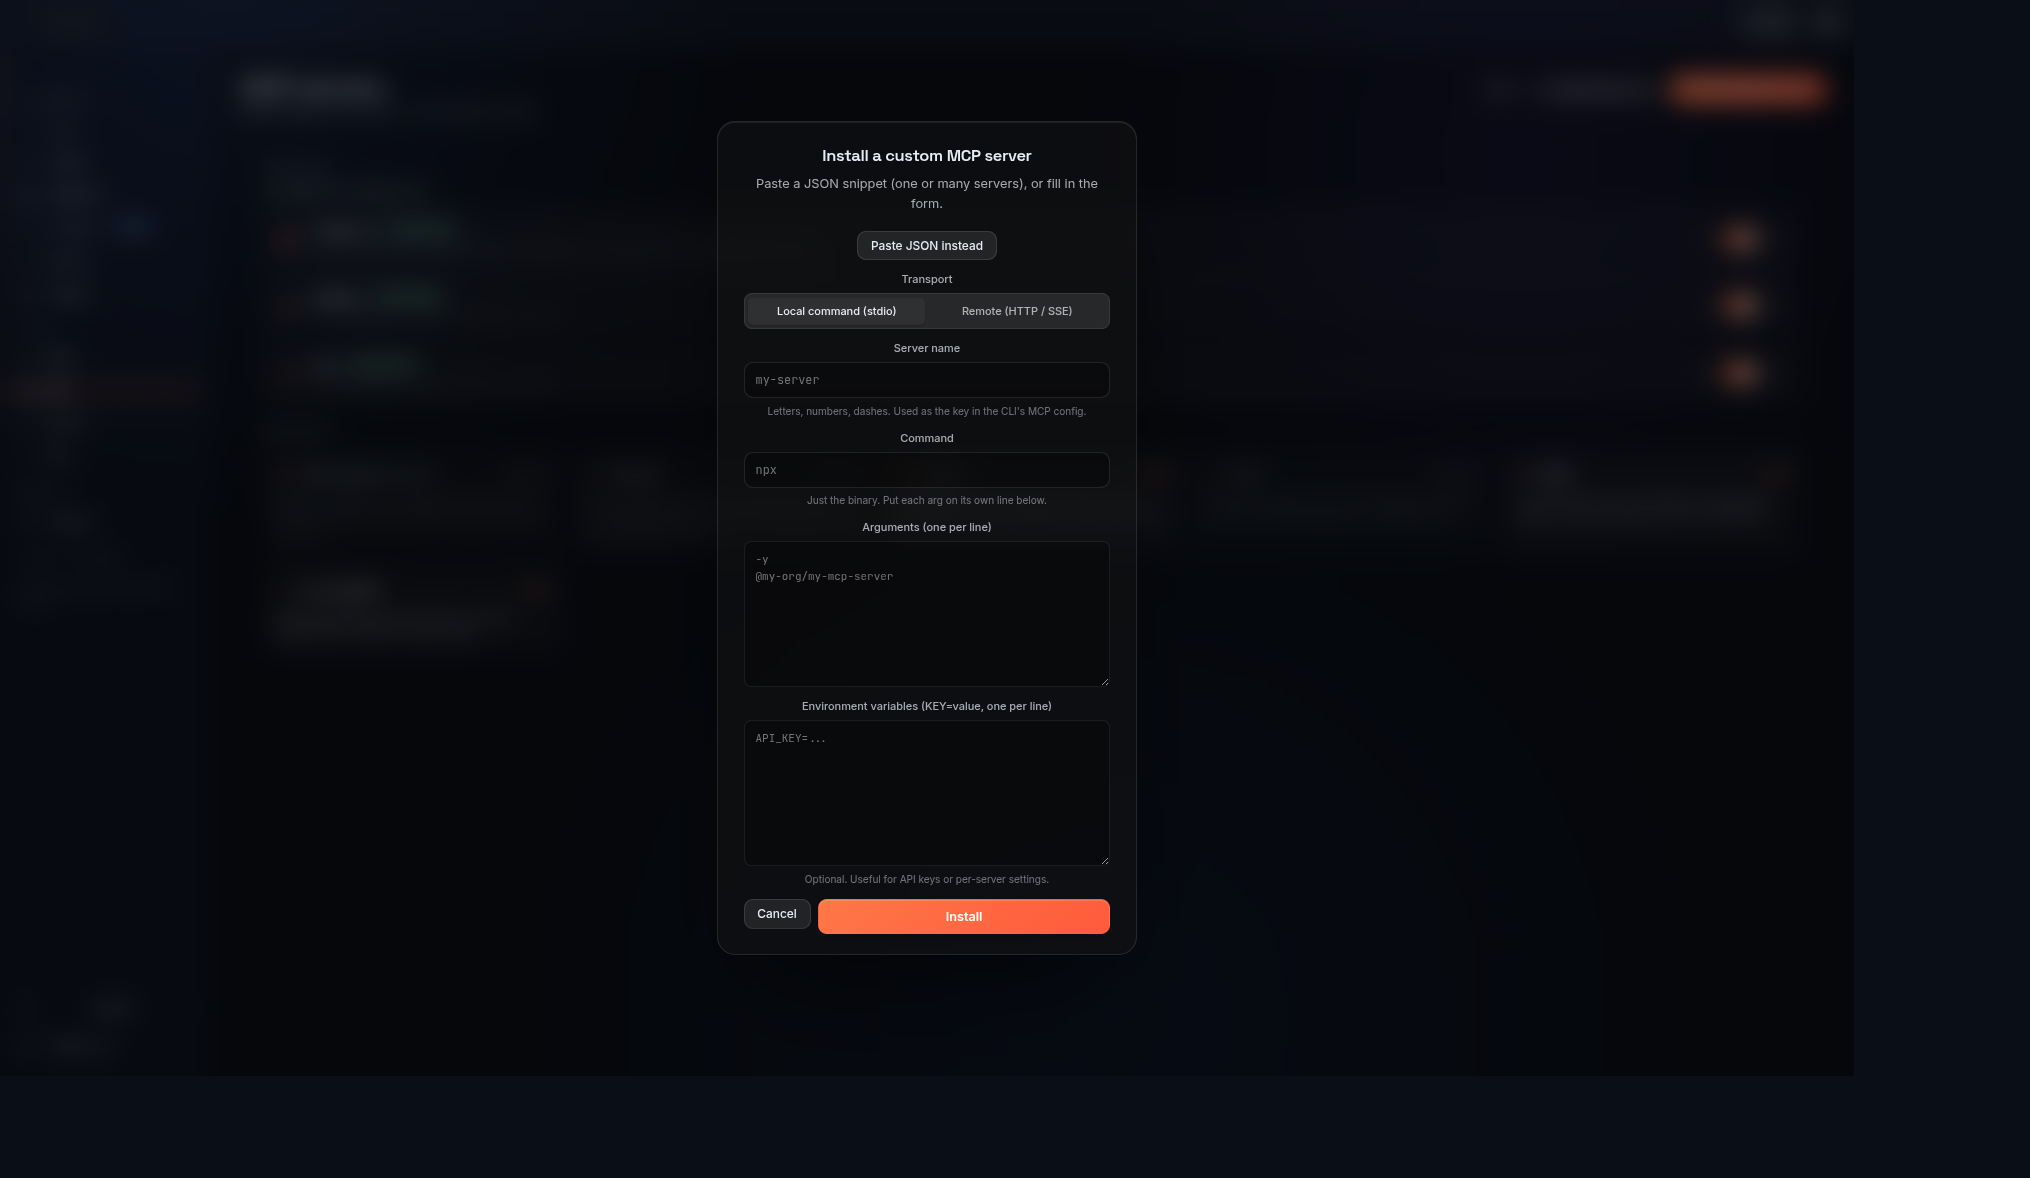
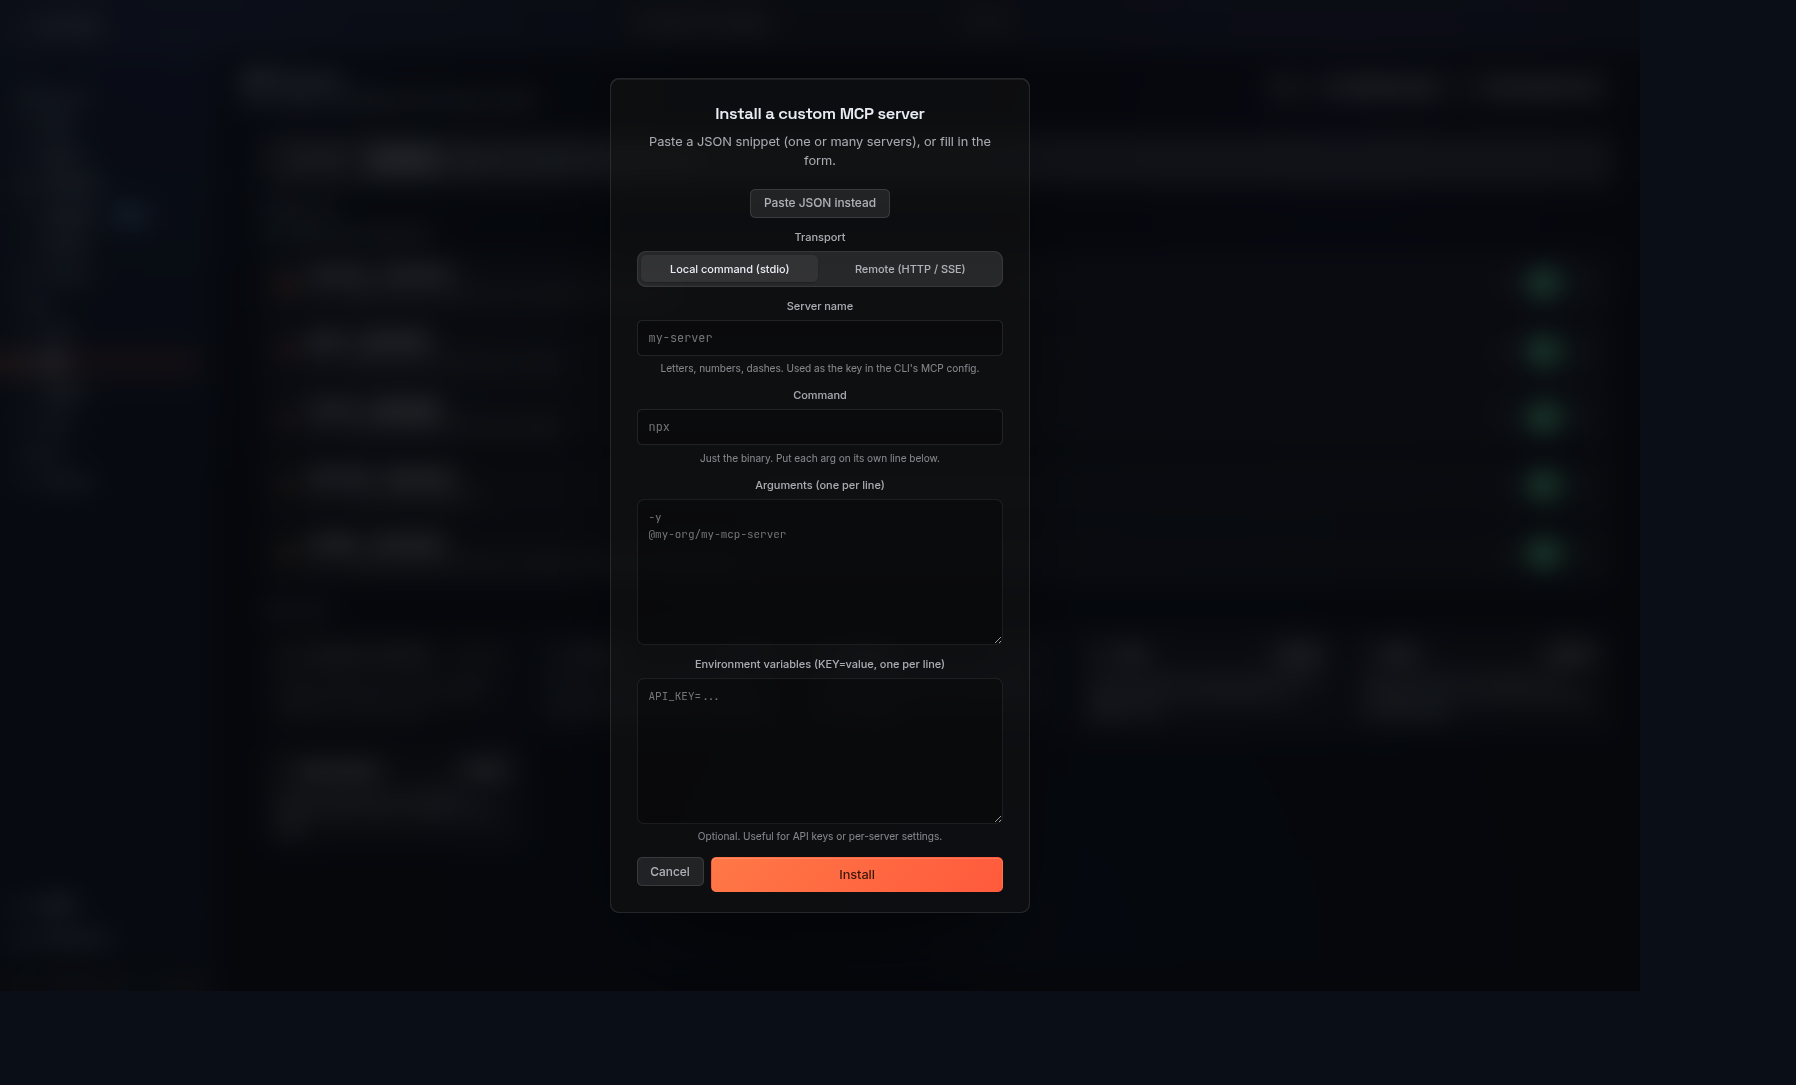
chore(docs): refresh the product screenshots

diff --git a/test/tools/docs-shots.js b/test/tools/docs-shots.js
@@ -1,0 +1,330 @@
+#!/usr/bin/env node
+'use strict';
+
+// Screenshot harness for the product images in docs/images.
+//
+//   node test/tools/docs-shots.js [outDir]
+//
+// Seeds a throwaway HOME with a demo workspace (agents, skills, MCP servers,
+// prompts, projects, workflows) and captures every page the README shows. The
+// profile is synthetic on purpose: nothing on the maintainer's machine, no
+// personal directories, no account details, nothing to redact afterwards.
+
+const path = require('path');
+const os = require('os');
+const fs = require('fs');
+const { execFileSync } = require('child_process');
+const { _electron: electron } = require('playwright');
+
+const REPO_ROOT = path.resolve(__dirname, '..', '..');
+const OUT_DIR = path.resolve(process.argv[2] || path.join(REPO_ROOT, 'docs', 'images'));
+
+const sanitize = (p) => p.replace(/[^a-zA-Z0-9]/g, '-');
+const sid = (n) => `d0cd0c00-0000-4dc7-abb3-${String(n).padStart(12, '0')}`;
+const MIN = 60_000;
+const HOUR = 60 * MIN;
+
+const AGENTS = [
+  ['Architect', 'Maps system tradeoffs and keeps implementation plans coherent.',
+    'You are an architect. Explain tradeoffs, sequence work, and keep designs practical.'],
+  ['Automation Builder', 'Creates repeatable workflows for routine engineering tasks.',
+    'You turn a repeated task into a workflow with clear steps and checks.'],
+  ['Docs Writer', 'Writes clear guides, release notes, and README updates for developers.',
+    'You write documentation a developer can follow on the first read.'],
+  ['Feature Planner', 'Turns rough ideas into small, testable product slices.',
+    'You break an idea into slices that can each ship on their own.'],
+  ['QA Tester', 'Plans validations and verifies user flows end to end.',
+    'You plan the checks that prove a change works, then run them.'],
+];
+
+const SKILLS = [
+  ['code-review', 'Reviews a diff for correctness, edge cases and clarity before it merges.'],
+  ['release-notes', 'Drafts release notes from the commit log in a house format.'],
+  ['api-design', 'Designs REST and GraphQL surfaces with versioning and pagination in mind.'],
+  ['test-planning', 'Turns a feature description into the checks that prove it works.'],
+  ['sql-tuning', 'Reads a slow query plan and proposes the index that fixes it.'],
+  ['incident-review', 'Runs a blameless postmortem and writes the follow-up actions.'],
+  ['dependency-audit', 'Checks a lockfile for advisories and stale transitive pins.'],
+  ['ui-copy', 'Writes interface copy that says what a control does in a few words.'],
+];
+
+const PROMPTS = [
+  ['explain-this-repo', 'Summarize the architecture of the repository in the current folder.'],
+  ['write-tests', 'Write tests for the file I am looking at, covering the edge cases.'],
+  ['review-my-diff', 'Review the working tree diff and list only real defects.'],
+  ['draft-release-notes', 'Draft release notes from the commits since the last tag.'],
+  ['debug-this-failure', 'Reproduce the failure, find the root cause, then propose the fix.'],
+];
+
+const MCP_SERVERS = {
+  filesystem: { command: 'npx', args: ['-y', '@modelcontextprotocol/server-filesystem', '/srv/projects'] },
+  github: { command: 'npx', args: ['-y', '@modelcontextprotocol/server-github'], env: { GITHUB_PERSONAL_ACCESS_TOKEN: 'set-in-your-environment' } },
+  postgres: { command: 'npx', args: ['-y', '@modelcontextprotocol/server-postgres', 'postgresql://localhost/app'] },
+  playwright: { command: 'npx', args: ['-y', '@playwright/mcp@latest'] },
+  memory: { command: 'npx', args: ['-y', '@modelcontextprotocol/server-memory'] },
+};
+
+function workflowGraph(steps, agentCommand) {
+  const nodes = steps.map((s, i) => ({
+    id: `n${i + 1}`,
+    name: s[0],
+    agentCommand,
+    prompt: s[1],
+    passContext: 'full',
+    x: 120 + (i % 2) * 320,
+    y: 90 + i * 190,
+  }));
+  const edges = nodes.slice(1).map((n, i) => ({
+    id: `e${i + 1}`, from: nodes[i].id, to: n.id, condition: { type: 'always', value: '' },
+  }));
+  return { nodes, edges };
+}
+
+const WORKFLOWS = [
+  ['Release check', 'Run the suite, read the diff, and draft the notes for the next tag.', [
+    ['Run the tests', 'Run the test suite and report failures with the exact output.'],
+    ['Read the diff', 'Summarize what changed since the last tag, grouped by area.'],
+    ['Draft the notes', 'Write release notes for the changes you just summarized.'],
+  ]],
+  ['Bug triage', 'Reproduce a report, find the cause, and propose the smallest fix.', [
+    ['Reproduce', 'Reproduce the reported failure and capture the exact error.'],
+    ['Find the cause', 'Trace the failure to the line that produces it.'],
+    ['Propose a fix', 'Propose the smallest change that fixes the cause.'],
+  ]],
+  ['Docs refresh', 'Find what the docs promise, check it against the code, and fix the drift.', [
+    ['Collect claims', 'List every claim the docs make about behavior.'],
+    ['Check the code', 'Check each claim against what the code actually does.'],
+    ['Rewrite', 'Rewrite the sections that no longer match.'],
+  ]],
+];
+
+// A stand-in agent CLI. It prints one plausible exchange and then waits, so the
+// chat page has a session to show without any real transcript behind it.
+const AGENT_SHIM = `#!/bin/sh
+case "$1" in
+  --version|-v|version) echo "agent 1.4.2"; exit 0 ;;
+  -p|--print|--message)
+    printf '  reading the repository\\n'
+    sleep 1
+    printf '  ran the checks for this step\\n'
+    sleep 2
+    printf '  step complete\\n'
+    exit 0 ;;
+esac
+printf '\\033[38;5;245m  agent 1.4.2  ·  demo-app  ·  type a message\\033[0m\\r\\n\\r\\n'
+printf '\\033[38;5;250m› summarize what this service does and where it starts\\033[0m\\r\\n\\r\\n'
+sleep 0.4
+printf '\\033[36m  ⏵ read  README.md\\033[0m\\r\\n'
+printf '\\033[36m  ⏵ read  src/server.js\\033[0m\\r\\n'
+printf '\\033[36m  ⏵ read  src/routes/orders.js\\033[0m\\r\\n\\r\\n'
+printf '  This is a small order service. src/server.js boots an HTTP listener,\\r\\n'
+printf '  mounts the routes under src/routes, and opens one pool against the\\r\\n'
+printf '  database named in config/default.json.\\r\\n\\r\\n'
+printf '  Requests enter at src/routes/orders.js, which validates the payload\\r\\n'
+printf '  and hands it to the service layer. Nothing else writes to the store.\\r\\n\\r\\n'
+printf '\\033[38;5;250m› add a page size to the orders list and keep the default at 25\\033[0m\\r\\n\\r\\n'
+sleep 0.3
+printf '\\033[36m  ⏵ edit  src/routes/orders.js\\033[0m\\r\\n'
+printf '\\033[36m  ⏵ edit  src/services/orders.js\\033[0m\\r\\n'
+printf '\\033[36m  ⏵ run   npm test -- orders\\033[0m\\r\\n\\r\\n'
+printf '  The list route now reads page and pageSize from the query, clamps the\\r\\n'
+printf '  size to 100, and falls back to 25 when the caller sends neither. The\\r\\n'
+printf '  service passes both through to the query rather than slicing in memory.\\r\\n\\r\\n'
+printf '  Tests: 14 passed. The two that cover an out of range size now assert\\r\\n'
+printf '  the clamp instead of the old error.\\r\\n\\r\\n'
+printf '\\033[38;5;245m  Ask a follow-up, or drop a file into the window to share it.\\033[0m\\r\\n\\r\\n'
+printf '› '
+sleep 900
+`;
+
+function seedSession(homeDir, cwd, n, title, ago) {
+  const dir = path.join(homeDir, '.claude', 'projects', sanitize(cwd));
+  fs.mkdirSync(dir, { recursive: true });
+  const at = Date.now() - ago;
+  const iso = (ms) => new Date(ms).toISOString();
+  const lines = [
+    { type: 'user', message: { role: 'user', content: title }, timestamp: iso(at - 20 * MIN), cwd, session_id: sid(n) },
+    { type: 'system', subtype: 'ai-title', title, timestamp: iso(at - 19 * MIN) },
+    { type: 'assistant', message: { role: 'assistant', content: [{ type: 'text', text: 'Reading the files that matter first.' }] }, timestamp: iso(at - 18 * MIN) },
+    { type: 'assistant', message: { role: 'assistant', content: [{ type: 'text', text: 'Done. The suite is green.' }] }, timestamp: iso(at) },
+  ];
+  const file = path.join(dir, `${sid(n)}.jsonl`);
+  fs.writeFileSync(file, lines.map((l) => JSON.stringify(l)).join('\n') + '\n');
+  fs.utimesSync(file, new Date(at), new Date(at));
+}
+
+function makeHome() {
+  const homeDir = fs.mkdtempSync(path.join(os.tmpdir(), 'husk-docs-'));
+  const bin = fs.mkdtempSync(path.join(os.tmpdir(), 'husk-docs-bin-'));
+  const shim = path.join(bin, 'agent');
+  fs.writeFileSync(shim, AGENT_SHIM);
+  fs.chmodSync(shim, 0o755);
+  // A workflow step takes an agent by name, resolved on PATH, and only one the
+  // runner knows. The demo flows name that one; the chat page keeps its own.
+  const stepShim = path.join(bin, 'claude');
+  fs.writeFileSync(stepShim, AGENT_SHIM);
+  fs.chmodSync(stepShim, 0o755);
+  const code = path.join(homeDir, 'code');
+  const demo = path.join(code, 'demo-app');
+  const site = path.join(code, 'marketing-site');
+  const api = path.join(code, 'orders-api');
+  for (const d of [demo, site, api]) fs.mkdirSync(d, { recursive: true });
+  fs.writeFileSync(path.join(demo, 'README.md'), '# demo-app\n\nA small order service.\n');
+
+  // Two of the folders are repositories, so the columns that report a branch
+  // and a working tree have something true to say.
+  for (const [repo, dirty] of [[demo, true], [api, false]]) {
+    const git = (...args) => execFileSync('git', ['-C', repo, ...args], { stdio: 'ignore' });
+    try {
+      git('init', '-q', '-b', 'main');
+      git('config', 'user.email', 'demo@example.com');
+      git('config', 'user.name', 'Demo');
+      fs.writeFileSync(path.join(repo, 'index.js'), "console.log('ok');\n");
+      git('add', '-A');
+      git('commit', '-q', '-m', 'initial commit');
+      if (dirty) fs.writeFileSync(path.join(repo, 'index.js'), "console.log('ok');\nconsole.log('page size');\n");
+    } catch (_) {}
+  }
+
+  // Agents live on the saved profiles; the built-ins come from the app itself.
+  const profiles = AGENTS.map(([name, description, systemPrompt], i) => ({
+    id: `p${i + 1}`, name, description, systemPrompt, active: i < 2,
+  }));
+
+  const cfgDir = path.join(homeDir, '.config', 'husk');
+  fs.mkdirSync(cfgDir, { recursive: true });
+  fs.writeFileSync(path.join(cfgDir, 'config.json'), JSON.stringify({
+    firstRunDone: true,
+    skipWelcome: true,
+    // The release highlights are their own surface; a product capture opens on
+    // the page it is meant to show.
+    lastSeenVersion: require(path.join(REPO_ROOT, 'package.json')).version,
+    theme: 'midnight',
+    agentCommand: 'agent',
+    profiles,
+    projects: [
+      { id: 'pr1', name: 'Demo App', path: demo, addedAt: Date.now() - 12 * HOUR, lastUsedAt: Date.now() - 4 * MIN },
+      { id: 'pr2', name: 'Orders API', path: api, addedAt: Date.now() - 3 * 24 * HOUR, lastUsedAt: Date.now() - 6 * HOUR },
+      { id: 'pr3', name: 'Marketing Site', path: site, addedAt: Date.now() - 9 * 24 * HOUR, lastUsedAt: Date.now() - 2 * 24 * HOUR },
+    ],
+    activeProjectId: 'pr1',
+  }, null, 2));
+
+  fs.writeFileSync(path.join(cfgDir, 'workflows.json'), JSON.stringify(
+    WORKFLOWS.map(([name, description, steps], i) => ({
+      id: `wf-demo-${i + 1}`,
+      name,
+      description,
+      graph: workflowGraph(steps, 'claude'),
+      trigger: 'manual',
+      origin: 'local',
+      createdAt: new Date(Date.now() - (i + 2) * 24 * HOUR).toISOString(),
+      updatedAt: new Date(Date.now() - (i + 1) * HOUR).toISOString(),
+    })), null, 2));
+
+  const promptsDir = path.join(cfgDir, 'prompts');
+  fs.mkdirSync(promptsDir, { recursive: true });
+  for (const [name, description] of PROMPTS) {
+    fs.writeFileSync(path.join(promptsDir, `${name}.md`),
+      `---\nname: ${name}\ndescription: ${description}\n---\n\n${description}\n`);
+  }
+
+  const skillsDir = path.join(homeDir, '.claude', 'skills');
+  for (const [name, description] of SKILLS) {
+    const dir = path.join(skillsDir, name);
+    fs.mkdirSync(dir, { recursive: true });
+    fs.writeFileSync(path.join(dir, 'SKILL.md'),
+      `---\nname: ${name}\ndescription: ${description}\n---\n\n# ${name}\n\n${description}\n`);
+  }
+
+  fs.writeFileSync(path.join(homeDir, '.claude.json'), JSON.stringify({ mcpServers: MCP_SERVERS }, null, 2));
+
+  seedSession(homeDir, demo, 1, 'Add pagination to the orders endpoint', 4 * MIN);
+  seedSession(homeDir, demo, 2, 'Why does the checkout retry twice on a timeout', 3 * HOUR);
+  seedSession(homeDir, api, 3, 'Move the rate limiter in front of the auth check', 26 * HOUR);
+
+  return { homeDir, demo, bin };
+}
+
+function launch(env) {
+  return electron.launch({
+    args: [REPO_ROOT, '--no-sandbox'],
+    cwd: REPO_ROOT,
+    env: {
+      ...process.env,
+      HOME: env.homeDir,
+      USERPROFILE: env.homeDir,
+      // Neutral clock: the status panel falls back to the timezone when no city
+      // resolves, and a demo capture must not carry a real one.
+      TZ: 'UTC',
+      PATH: `${env.bin}:${process.env.PATH}`,
+      ELECTRON_DISABLE_SANDBOX: '1',
+      HUSK_E2E: '1',
+    },
+    timeout: 40_000,
+  });
+}
+
+const shots = [];
+
+async function shoot(win, name, opts = {}) {
+  fs.mkdirSync(OUT_DIR, { recursive: true });
+  const file = path.join(OUT_DIR, name);
+  await win.screenshot({ path: file, animations: 'disabled', ...opts });
+  shots.push(name);
+  console.log(`  ${name}`);
+}
+
+(async () => {
+  const env = makeHome();
+  const app = await launch(env);
+  const errors = [];
+  try {
+    const win = await app.firstWindow({ timeout: 30_000 });
+    win.on('console', (m) => { if (m.type() === 'error') errors.push(m.text()); });
+    win.on('pageerror', (e) => errors.push(`pageerror: ${e.message}`));
+    await app.evaluate(({ BrowserWindow }) => {
+      BrowserWindow.getAllWindows()[0].setBounds({ x: 0, y: 0, width: 1640, height: 1020 });
+    });
+    await win.waitForLoadState('domcontentloaded');
+    await win.waitForFunction(() => typeof setPage === 'function', null, { timeout: 20_000 });
+    await win.waitForTimeout(7000);
+
+    await shoot(win, 'husk-chat.png');
+
+    for (const [page, name] of [
+      ['agents', 'husk-agents.png'],
+      ['workflows', 'husk-workflows.png'],
+      ['projects', 'husk-projects.png'],
+      ['prompts', 'husk-prompts.png'],
+      ['skills', 'husk-skills.png'],
+      ['mcp', 'husk-mcp.png'],
+    ]) {
+      try {
+        await win.evaluate((p) => setPage(p), page);
+        await win.waitForTimeout(1800);
+        await shoot(win, name);
+      } catch (err) { console.log(`  ${name} FAILED: ${err.message}`); }
+    }
+
+    await win.evaluate(() => openMcpCustomModal());
+    await win.waitForTimeout(900);
+    await shoot(win, 'husk-mcp-install.png');
+    await win.keyboard.press('Escape');
+
+    // The run shot has to be taken while the graph is live, so it is captured
+    // a few seconds in rather than after the run settles.
+    await win.evaluate(() => setPage('workflows'));
+    await win.waitForTimeout(800);
+    try {
+      await win.evaluate(() => { runWorkflow('wf-demo-1'); });
+      await win.waitForTimeout(7000);
+      await shoot(win, 'husk-workflow-run.png');
+    } catch (err) { console.log(`  husk-workflow-run.png FAILED: ${err.message}`); }
+
+    console.log(`\n${shots.length} images written to ${OUT_DIR}`);
+    if (errors.length) console.log(`console errors:\n${errors.slice(0, 8).join('\n')}`);
+  } finally {
+    await app.close();
+  }
+})();
